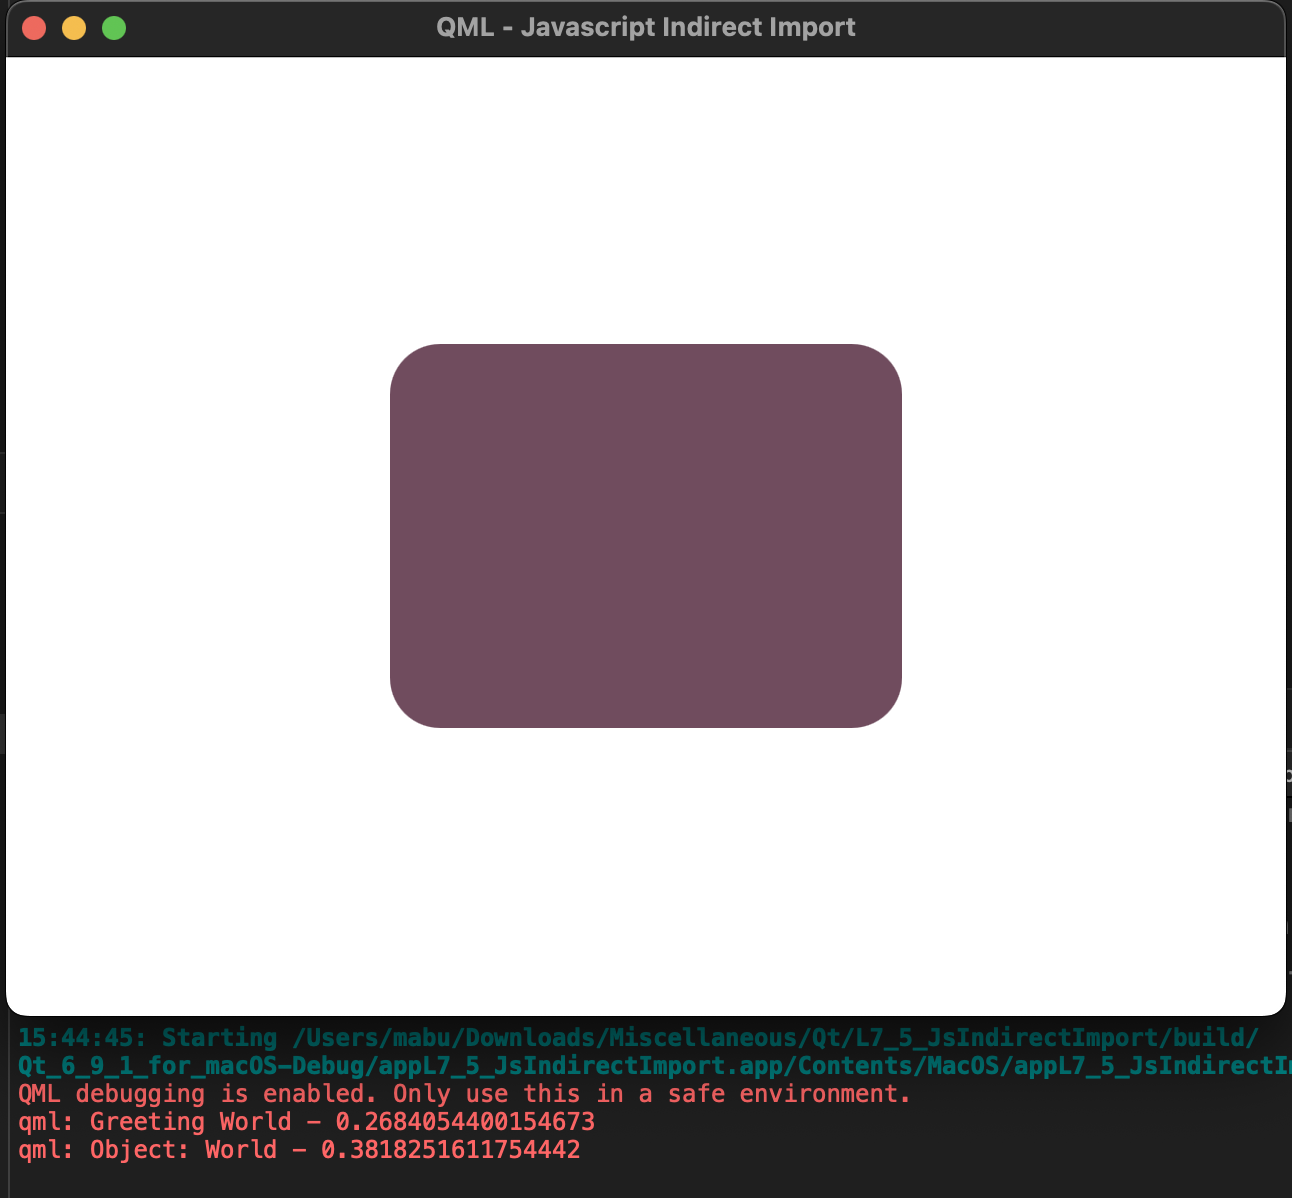
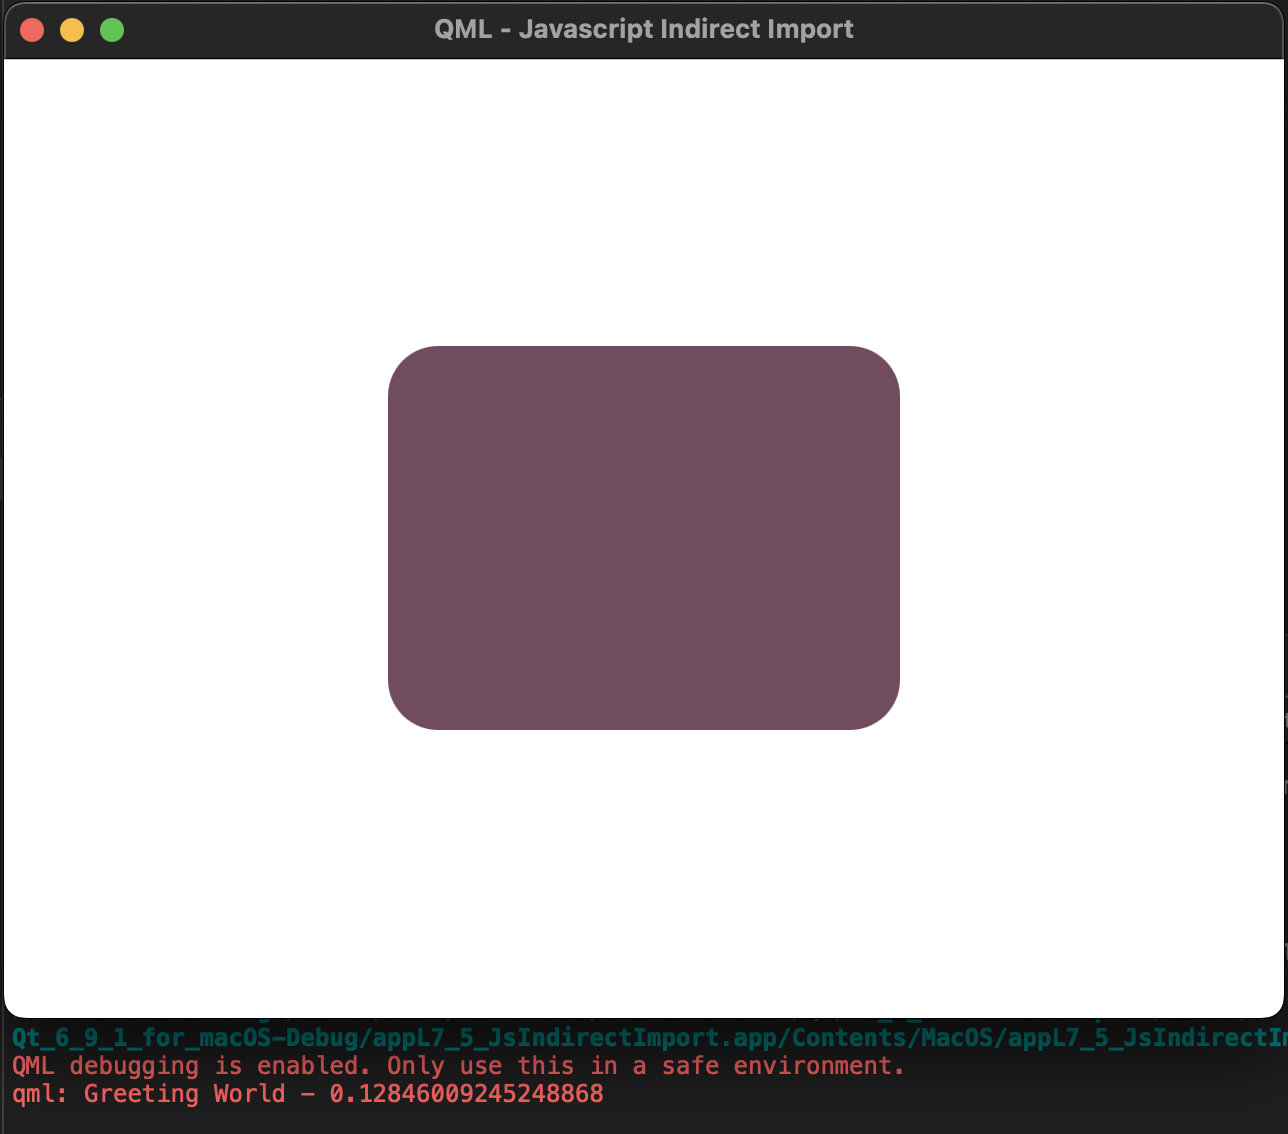
added L7_6_QtInclude

diff --git a/L7_6_QtInclude/Main.qml b/L7_6_QtInclude/Main.qml
@@ -1,12 +1,12 @@
 import QtQuick
-import "utilities1.js" as Utilities1
+import "Utilities1.js" as Utilities1
 
 Window {
     id: rootId
     width: 640
     height: 480
     visible: true
-    title: qsTr("QML - Javascript Indirect Import")
+    title: qsTr("QML - Qt.include")
 
     Rectangle {
         color: "#704C5E"
@@ -19,7 +19,7 @@ Window {
             anchors.fill: parent
             onClicked: {
                 Utilities1.greeting()
-                // console.log("Object:", Utilities2.getObject()) // Error
+                console.log("Object:", Utilities1.getObject())
             }
         }
     }

diff --git a/L7_6_QtInclude/Utilities1.js b/L7_6_QtInclude/Utilities1.js
@@ -1,0 +1,6 @@
+// .import "utilities2.js" as Utilities2
+Qt.include("Utilities2.js")
+
+function greeting() {
+    console.log("Greeting", getObject())
+}

diff --git a/L7_6_QtInclude/Utilities2.js b/L7_6_QtInclude/Utilities2.js
@@ -1,0 +1,3 @@
+function getObject() {
+    return "World - " + Math.random()
+}

diff --git a/L7_6_QtInclude/main.cpp b/L7_6_QtInclude/main.cpp
@@ -1,0 +1,18 @@
+#include <QGuiApplication>
+#include <QQmlApplicationEngine>
+
+int main(int argc, char *argv[])
+{
+    QGuiApplication app(argc, argv);
+
+    QQmlApplicationEngine engine;
+    QObject::connect(
+        &engine,
+        &QQmlApplicationEngine::objectCreationFailed,
+        &app,
+        []() { QCoreApplication::exit(-1); },
+        Qt::QueuedConnection);
+    engine.loadFromModule("L7_6_QtInclude", "Main");
+
+    return app.exec();
+}

diff --git a/README.md b/README.md
@@ -127,3 +127,7 @@
 ## L7_5_JsIndirectImport
 
 ![alt text](assets/L7_5_JsIndirectImport.png)
+
+## L7_6_QtInclude
+
+![alt text](assets/L7_6_QtInclude.png)
